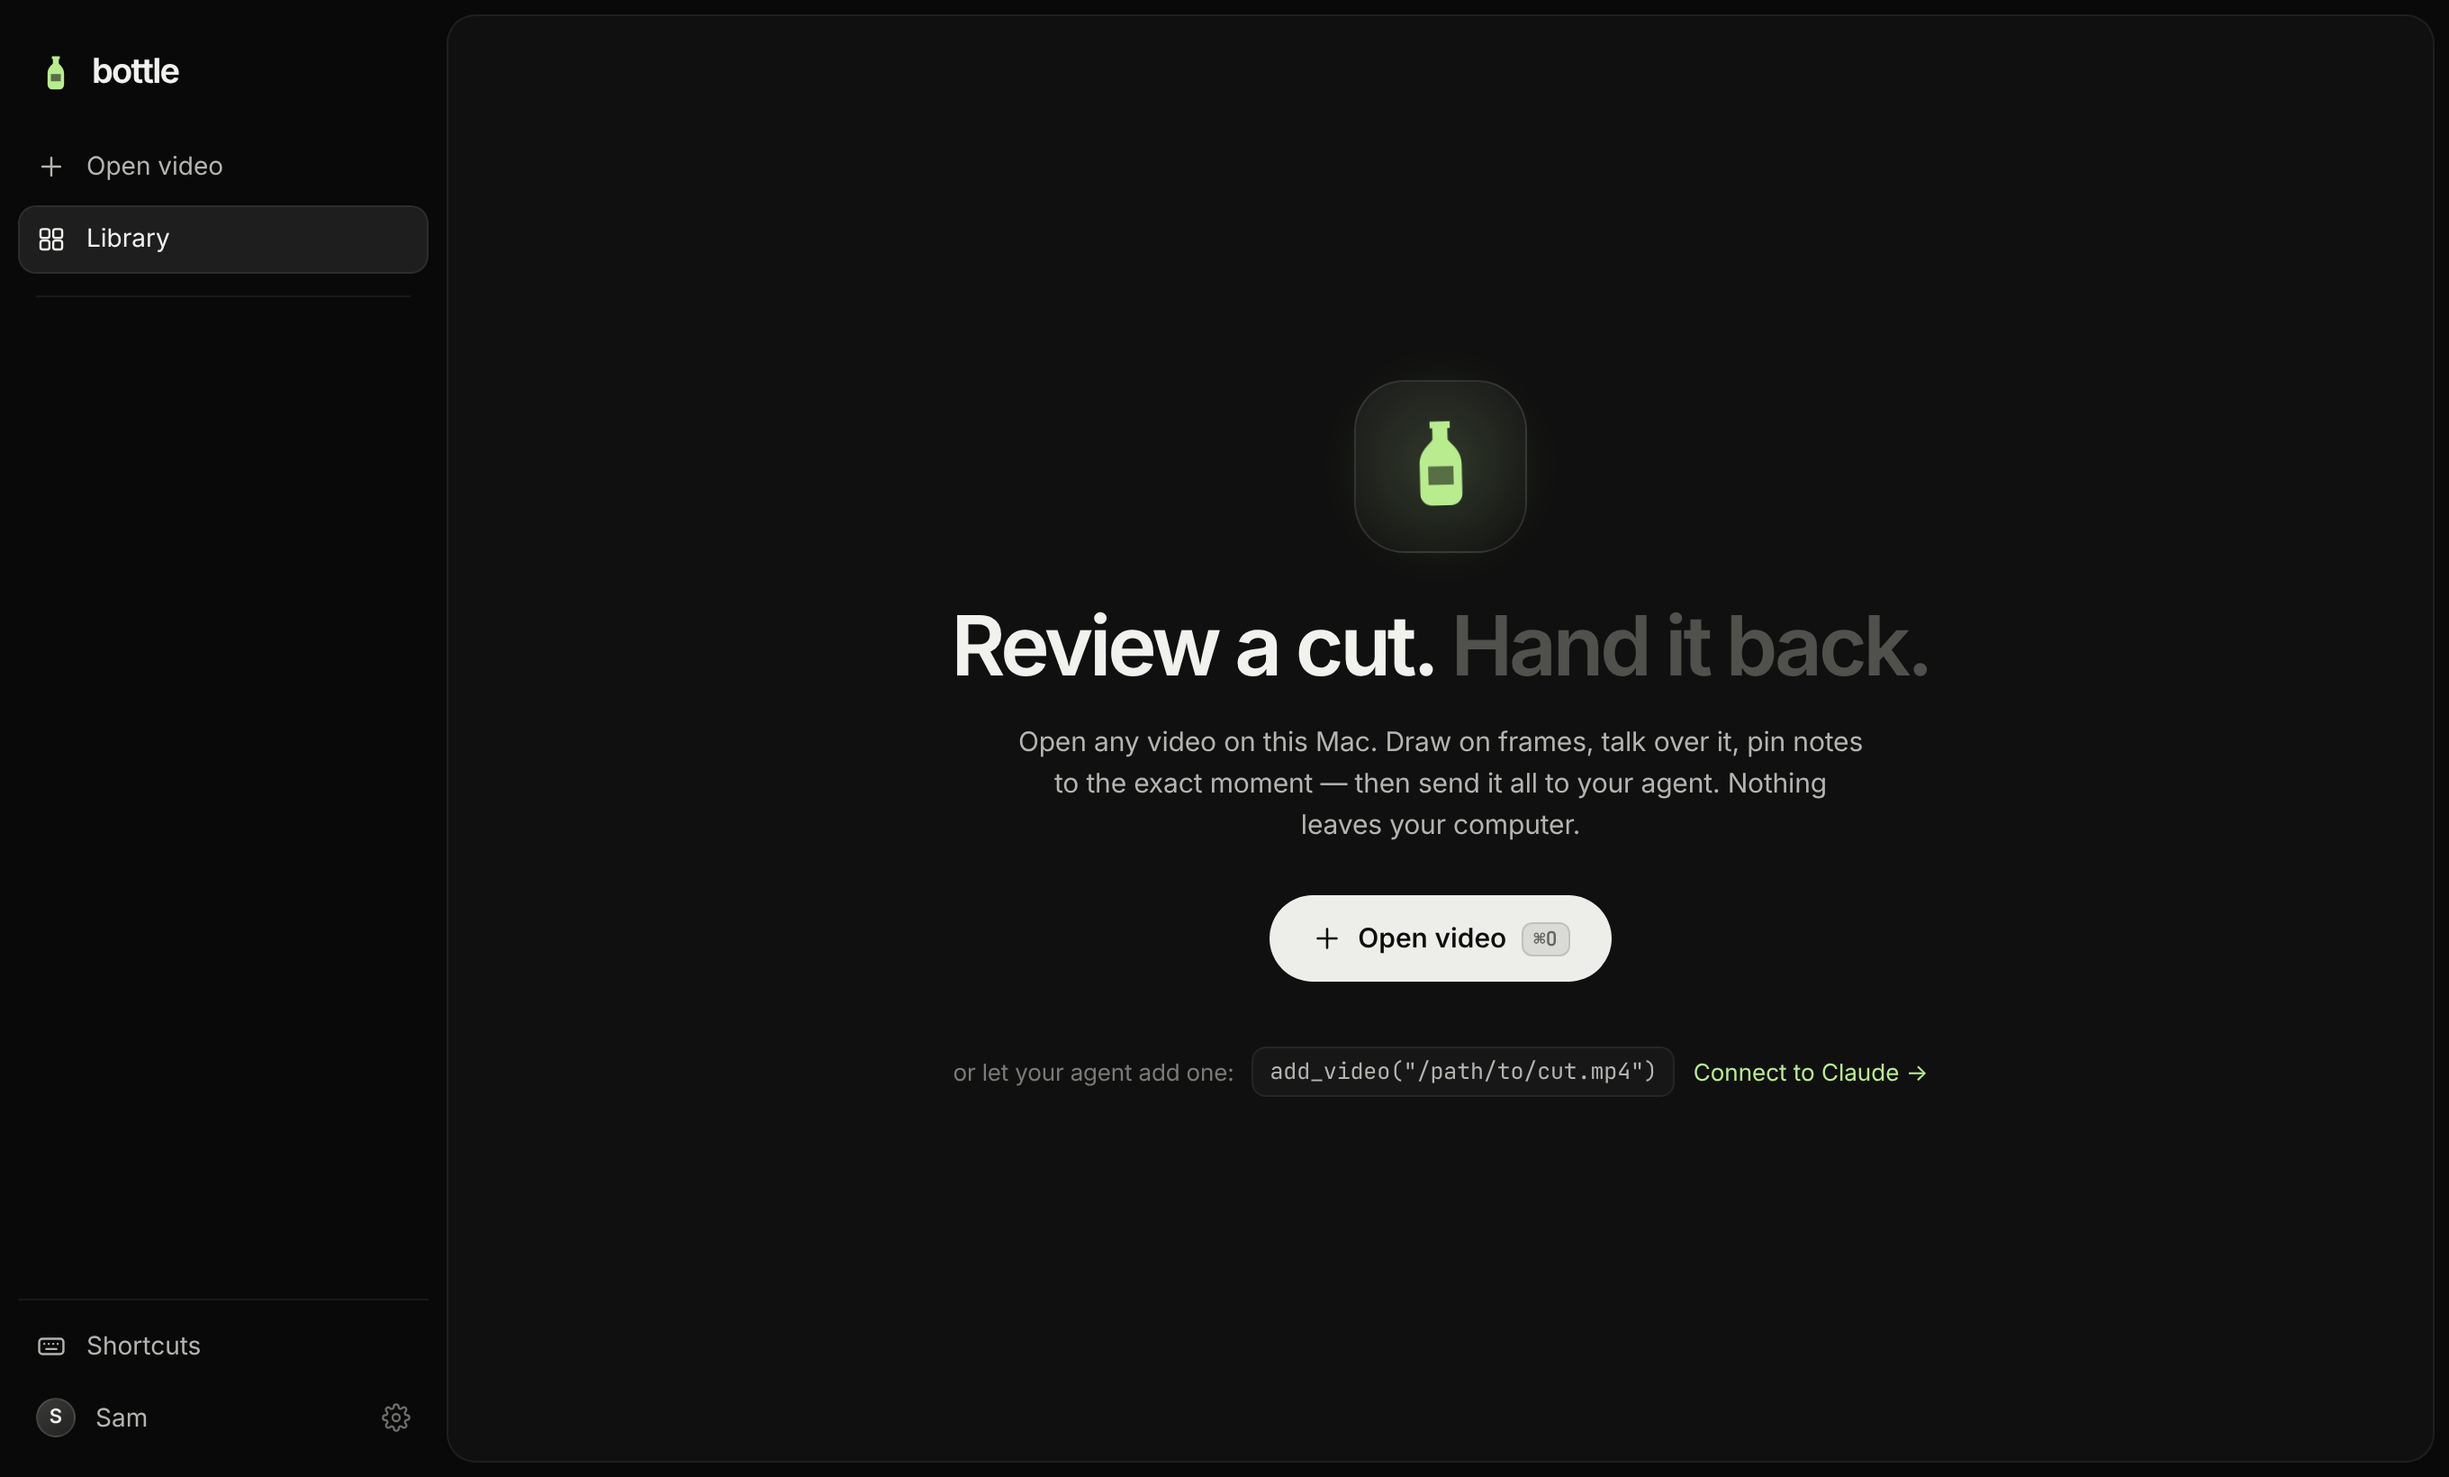
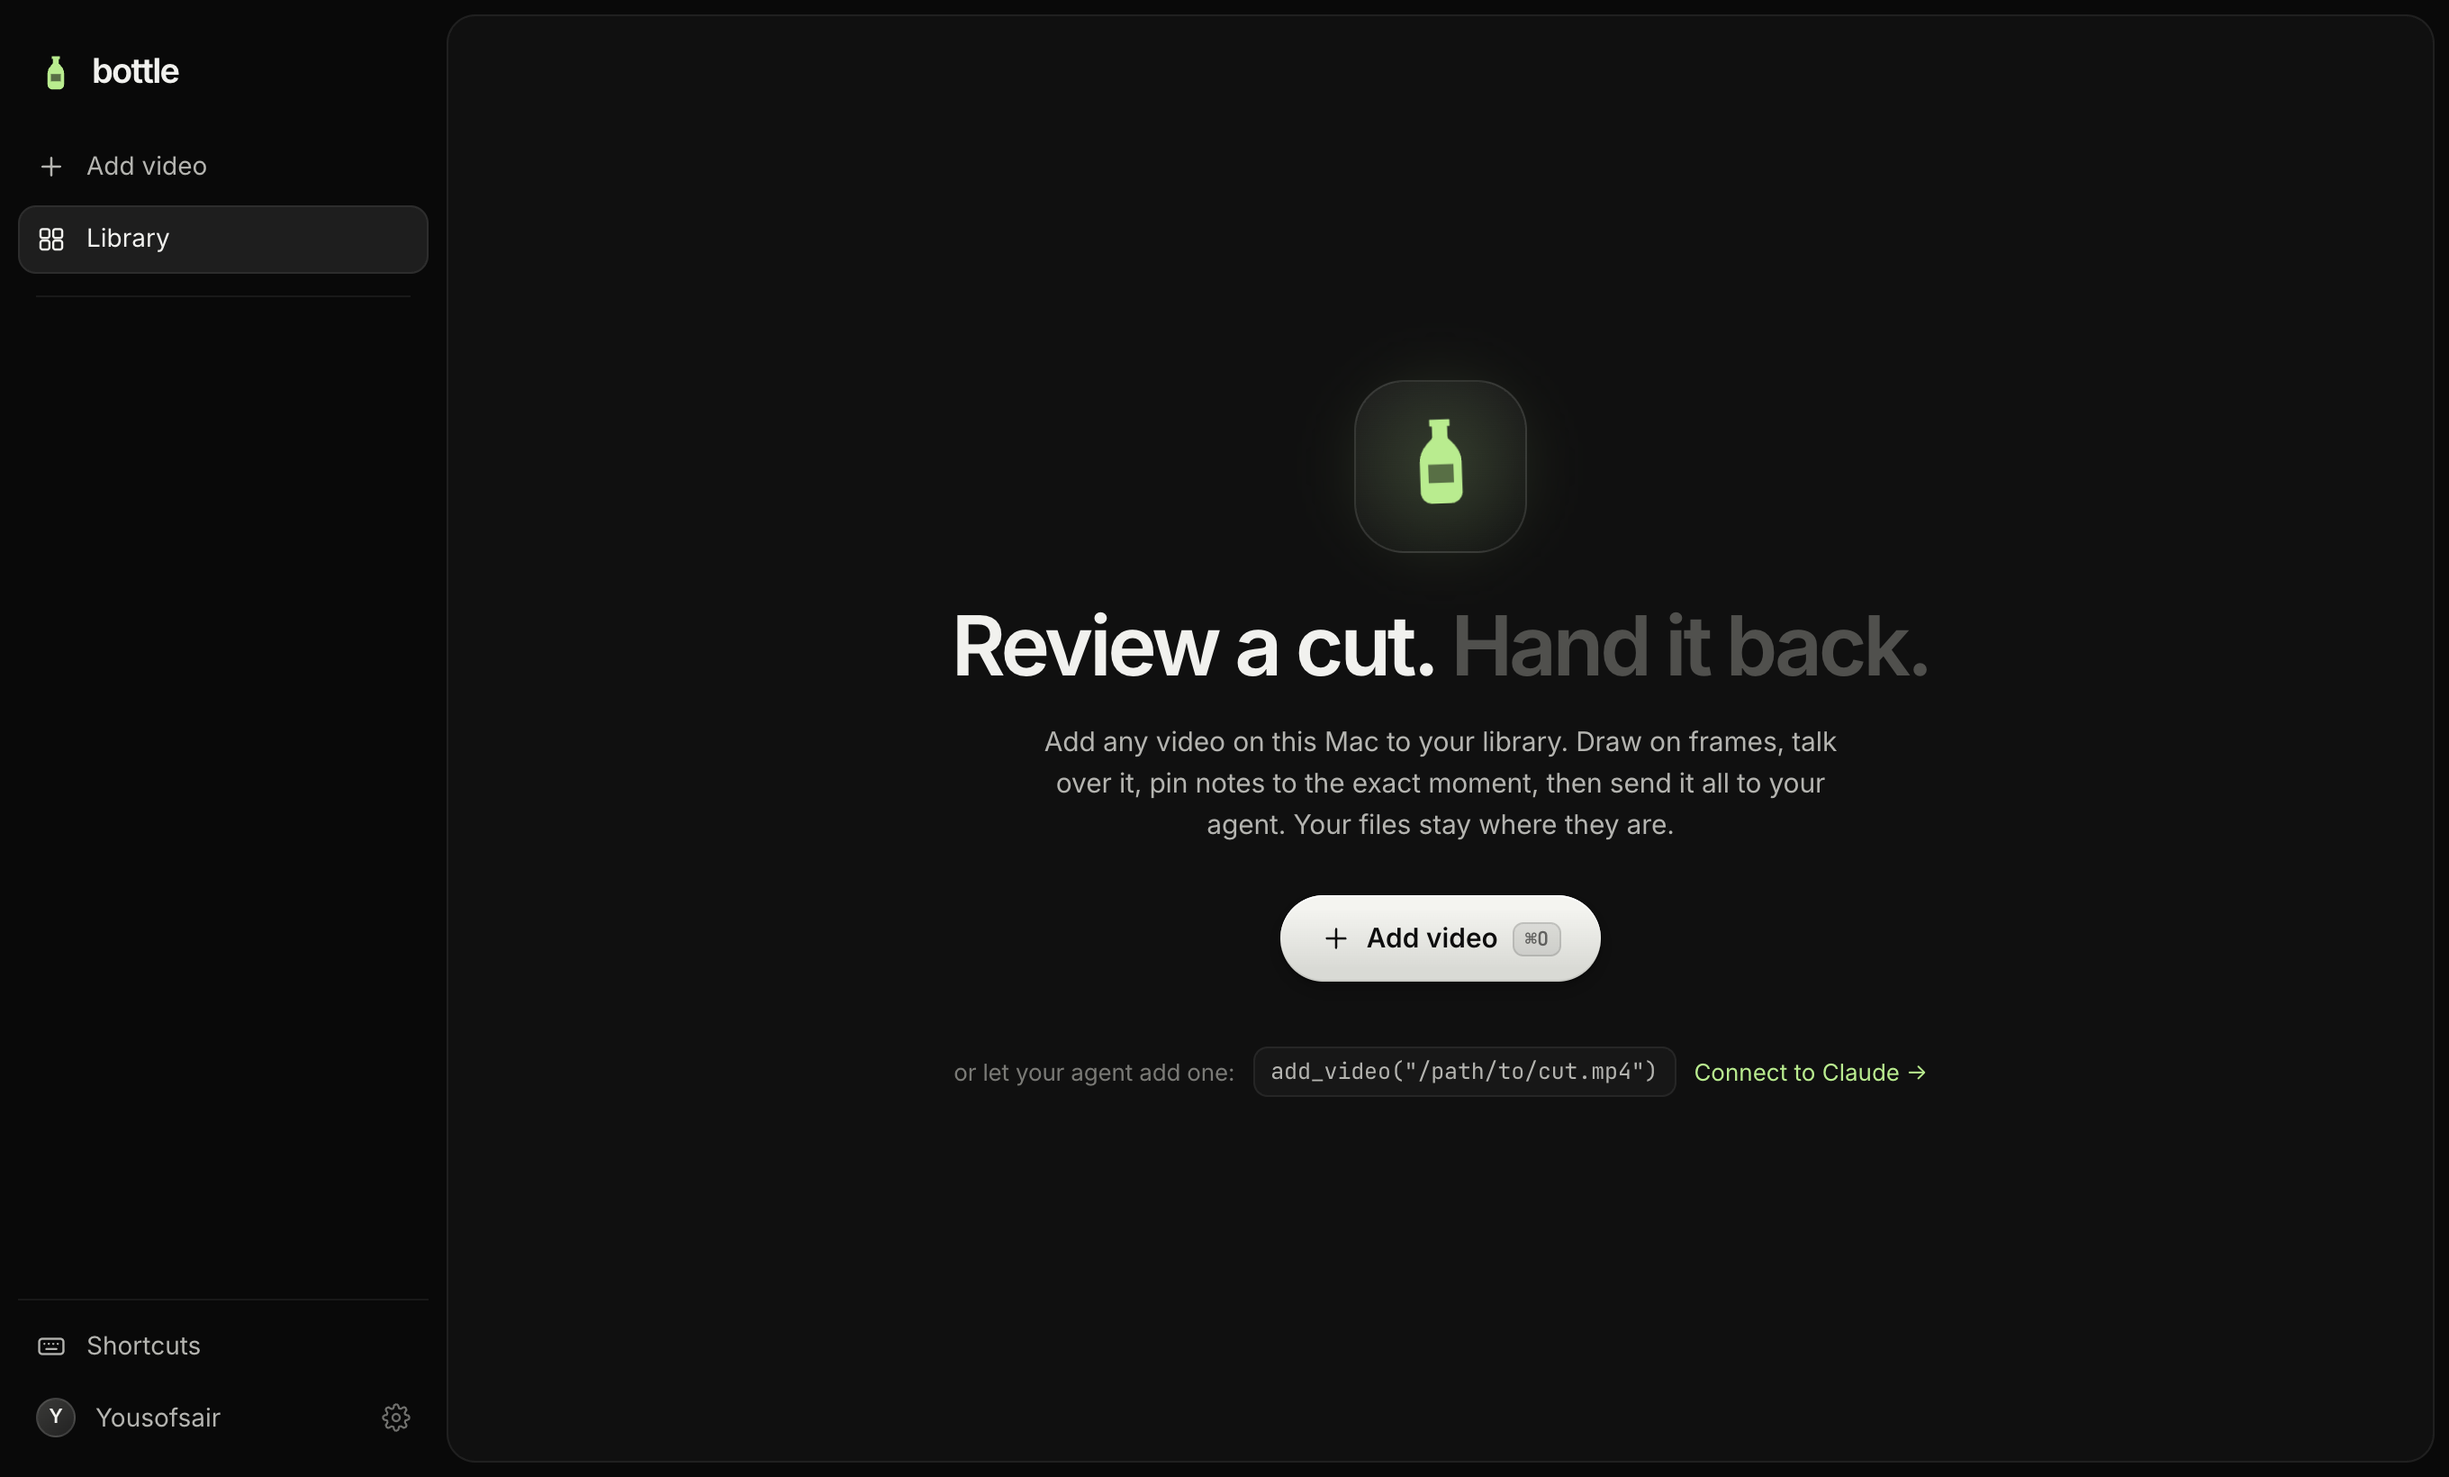
Rename "Open video" to "Add video" in docs, MCP and the paste dialog
Makes it clear the video is added to your library (referenced in place,
never copied). README hero for the empty state re-captured at 2x.

diff --git a/server/mcp.ts b/server/mcp.ts
@@ -31,8 +31,8 @@ const wrap = <A>(fn: (a: A, extra: any) => Promise<any>) => async (a: A, extra: 
 };
 
 server.registerTool('add_video', {
-  title: 'Add a video for review',
-  description: 'Register a video file (absolute path on this computer) for human review. The file is referenced in place, never copied. If the path, title, or file name (ignoring suffixes like _v2/_final) matches an existing video, it is added as that video\'s next version (v2, v3…). Pass video_id to force it to be a new version of a specific video.',
+  title: 'Add a video to the library',
+  description: 'Add a video file (absolute path on this computer) to the reviewer\'s Bottle library so they can review it. The file is referenced in place, never copied. If the path, title, or file name (ignoring suffixes like _v2/_final) matches an existing video, it is added as that video\'s next version (v2, v3…). Pass video_id to force it to be a new version of a specific video.',
   inputSchema: {
     path: z.string().describe('Absolute path to the video file, e.g. /Users/me/Movies/promo_v2.mp4'),
     title: z.string().optional().describe('Human-friendly title. Defaults to the file name.'),

diff --git a/web/src/components/PasteDialog.tsx b/web/src/components/PasteDialog.tsx
@@ -19,11 +19,11 @@ export function PasteDialog() {
     finally { setBusy(false); }
   };
   return (
-    <Dialog open={open} onClose={close} title="Open a video by path">
-      <p className="muted">Paste the full path of a video on this computer. Bottle plays it right where it is — nothing is copied.</p>
+    <Dialog open={open} onClose={close} title="Add a video by path">
+      <p className="muted">Paste the full path of a video on this computer. It’s added to your library and played right where it is. Nothing is copied.</p>
       <form onSubmit={(e) => { e.preventDefault(); submit(); }} className="row gap">
         <input autoFocus className="field grow mono" placeholder="/Users/you/Movies/cut_v1.mp4" value={path} onChange={(e) => setPath(e.target.value)} />
-        <button className="btn primary" disabled={!path.trim() || busy}>{busy ? 'Opening…' : 'Open'}</button>
+        <button className="btn primary" disabled={!path.trim() || busy}>{busy ? 'Adding…' : 'Add video'}</button>
       </form>
       {err && <p className="error-text">{err}</p>}
     </Dialog>

diff --git a/README.md b/README.md
@@ -29,10 +29,11 @@ which you can put anywhere you like (Documents works).
 
 Your browser opens Bottle. Keep the small Terminal window open while you review, and close it when you're done.
 
-### 3. Click **Open video**
-<img src="docs/screenshots/empty.png" alt="Bottle's welcome screen with the Open video button" width="720">
+### 3. Click **Add video**
+<img src="docs/screenshots/empty.png" alt="Bottle's welcome screen with the Add video button" width="720">
 
-Pick any video in the Mac file picker and you're reviewing. That's it.
+Pick any video in the Mac file picker. It's added to your library and starts playing. That's it.
+Bottle keeps a reference to the file where it is (nothing is copied), so it's in your library next time too.
 
 ---
 
@@ -40,19 +41,20 @@ Pick any video in the Mac file picker and you're reviewing. That's it.
 
 | Do this | How |
 |---|---|
-| Play / pause | <kbd>Space</kbd> (or <kbd>J</kbd> <kbd>K</kbd> <kbd>L</kbd> to shuttle) |
+| Play / pause | <kbd>Space</kbd> (or <kbd>J</kbd> <kbd>K</kbd> <kbd>L</kbd> to shuttle). Clicking a video in your library starts it playing. |
 | Step one frame | <kbd>←</kbd> <kbd>→</kbd> |
 | Comment at this moment | <kbd>C</kbd>, or click just above the timeline |
 | Draw on the frame | <kbd>D</kbd>, then <kbd>1</kbd>–<kbd>4</kbd> for pen, arrow, box, circle |
 | Voice note | <kbd>R</kbd> to start, <kbd>R</kbd> to stop. A transcript is saved too, since agents can't hear audio |
 | Post the comment | <kbd>Enter</kbd> |
 | Send everything to your agent | **Send to agent** (<kbd>⌘</kbd><kbd>↩</kbd>) |
-| See every shortcut | <kbd>?</kbd> |
+| Add a video to your library | **Add video** (<kbd>⌘</kbd><kbd>O</kbd>) |
+| See every shortcut | <kbd>?</kbd>, or hover any button: its tooltip shows the shortcut |
 
 - **Versions:** when your agent saves a new cut (for example `promo_v2.mp4`), Bottle adds it as **v2** of the same
   video. Switch versions from the `v2` chip next to the play button. Each version keeps its own comments.
 - **Rounds:** comments stay "Unsent" until you press **Send to agent**. Then they go out together as one round.
-- **Your files are safe:** Bottle never copies, moves, changes or re-encodes a video. "Remove from Bottle" only
+- **Your files are safe:** Bottle never copies, moves, changes or re-encodes a video. "Remove from library" only
   removes it from the list.
 
 ## Connect your agent
@@ -77,7 +79,7 @@ When you send a round, your agent can hear about it in up to four ways, set in *
 
 | Tool | What it does |
 |---|---|
-| `add_video(path, title?)` | Add a video by its path. A matching name or path becomes the next version. |
+| `add_video(path, title?)` | Add a video to your library by its path (referenced in place, never copied). A matching name or path becomes the next version. |
 | `list_videos()` | Every video, with its latest version, file path and number of open revisions. |
 | `get_revisions(video_id, status="open")` | Structured JSON: timestamp, timecode, frame, text, voice transcript, a plain-words description of any drawing, author, status, replies. |
 | `get_frame(video_id, timestamp)` | The frame as an image **with your drawing burned in**, so the agent sees exactly what you circled. Pass `revision_id` to get that note's own frame. |
@@ -85,7 +87,7 @@ When you send a round, your agent can hear about it in up to four ways, set in *
 | `resolve_revision(id, note?)` | Mark it done, with an optional note. |
 | `wait_for_revisions(video_id, timeout)` | Waits until you press **Send to agent**, then returns that round. |
 
-<p align="center"><img src="docs/demo.gif" alt="30-second demo: open a video, draw, record a voice note, send to the agent, and see v2 arrive" width="900"></p>
+<p align="center"><img src="docs/demo.gif" alt="30-second demo: add a video, draw, record a voice note, send to the agent, and see v2 arrive" width="900"></p>
 
 ---
 
